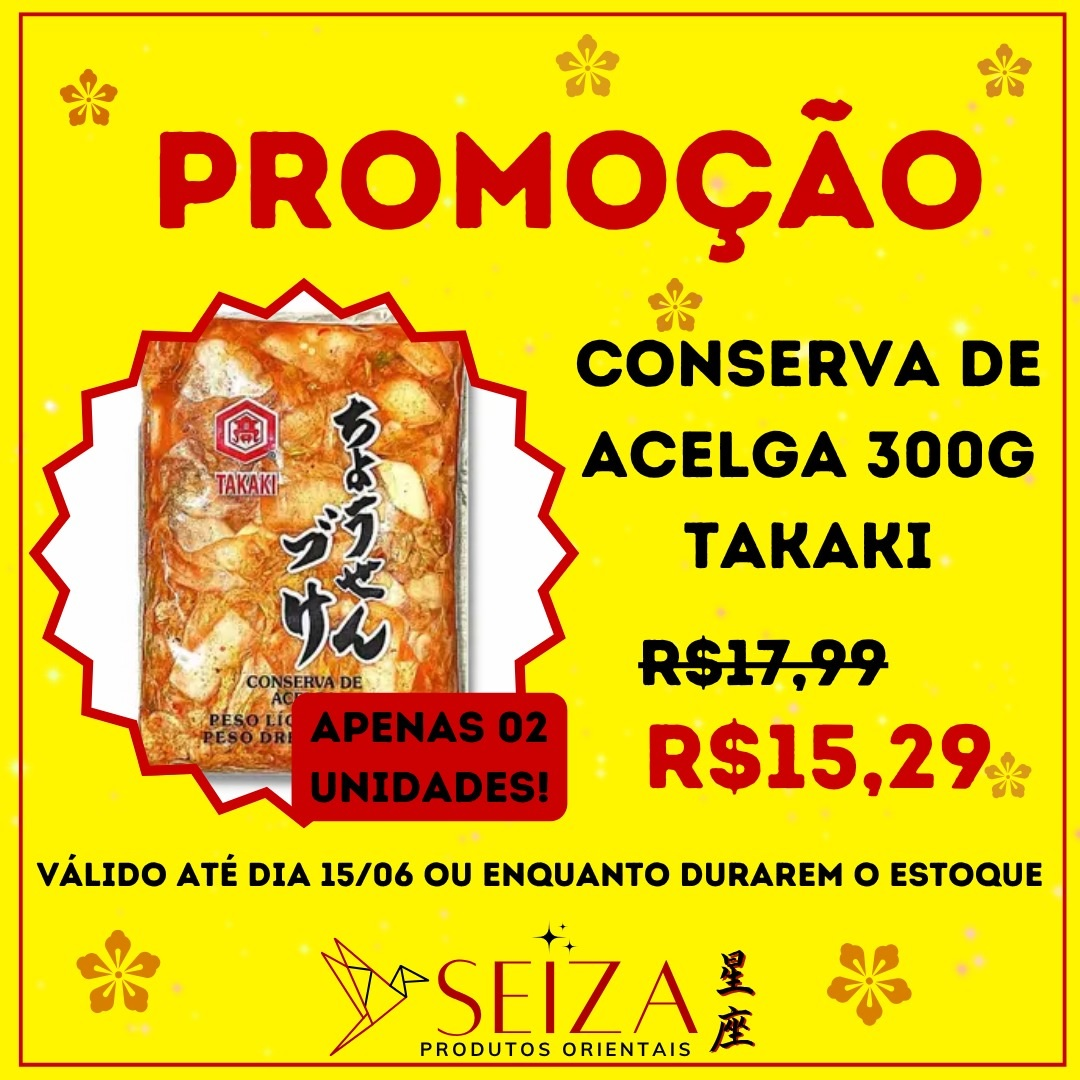
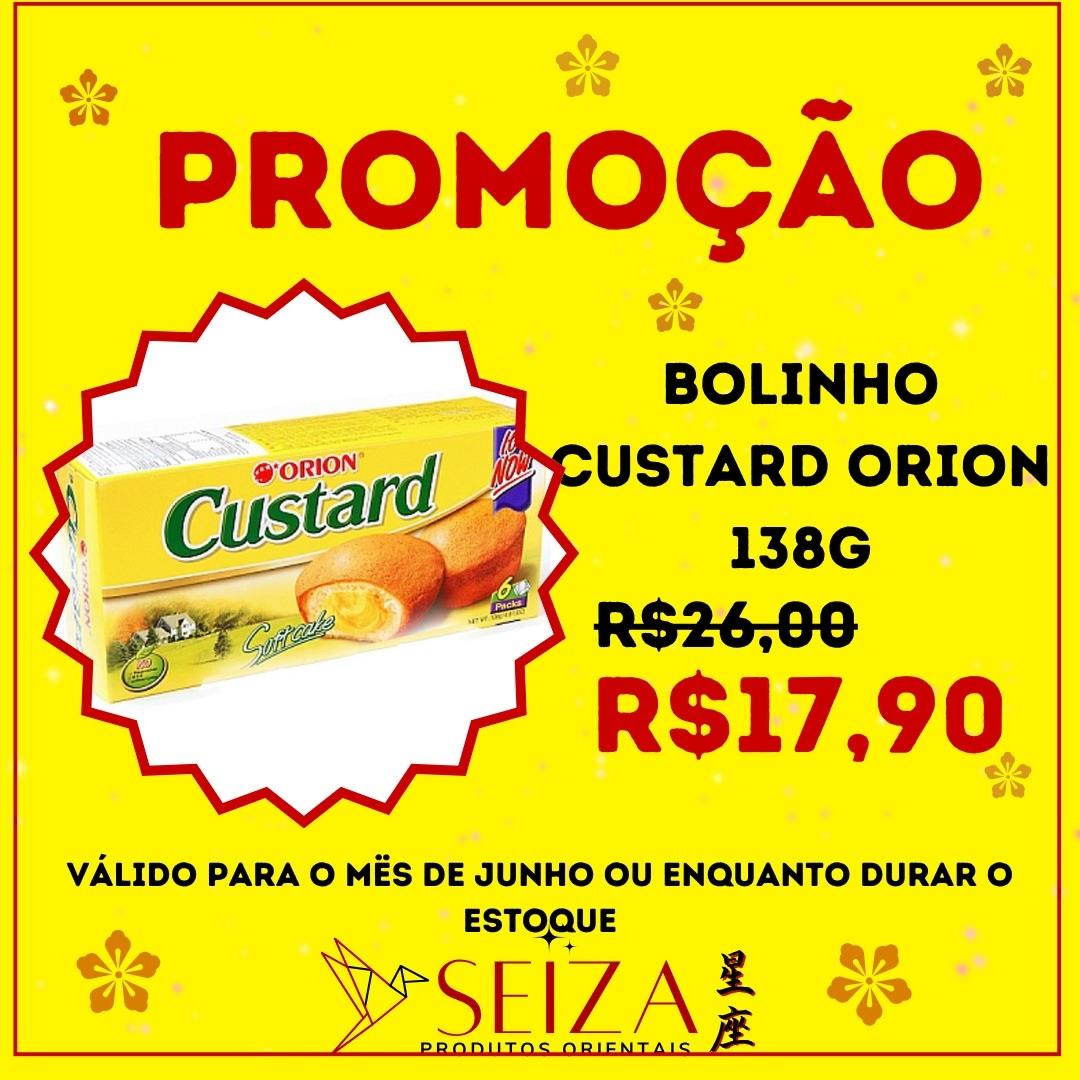
12_06_25_v23

diff --git a/script.js b/script.js
@@ -1138,20 +1138,42 @@ const promocoesPorComercio = [
     promocoes: [
       {
         imagem: "images/promocoes/1.jpg",
-        descricao: "Conserva de Acelga 300g TAKAKI",
-        validade: "2025-06-15T21:00:00",
-        desconto: "14,6",
+        descricao: "Bolinho Custard Orion 138G",
+        validade: "2025-06-30T23:00:00",
+        //desconto: "14,6",
         whatsapp: "43991034187"
       },
 
       {
         imagem: "images/promocoes/11.jpg",
         descricao: "Biscoito Wafer 57,6G",
-        validade: "2025-06-15T21:00:00",
-        desconto: "14,8",
+        validade: "2025-06-30T21:00:00",
+        desconto: "20,59",
         whatsapp: "43991034187"
       },
-      // ...até 10 promoções
+       {
+        imagem: "images/promocoes/3.jpg",
+        descricao: "Cookie Blanchule Bourbon 78g",
+        validade: "2025-06-30T23:00:00",
+        //desconto: "20,59",
+        whatsapp: "43991034187"
+      },
+
+        {
+        imagem: "images/promocoes/4.jpg",
+        descricao: "Alfort Mini Chocolate Morango 5g",
+        validade: "2025-06-30T23:00:00",
+        //desconto: "20,59",
+        whatsapp: "43991034187"
+      },
+
+       {
+        imagem: "images/promocoes/5.jpg",
+        descricao: "Chocolate Branco Morinaga Dars",
+        validade: "2025-06-30T23:00:00",
+        //desconto: "20,59",
+        whatsapp: "43991034187"
+      },
     ]
   },
 
